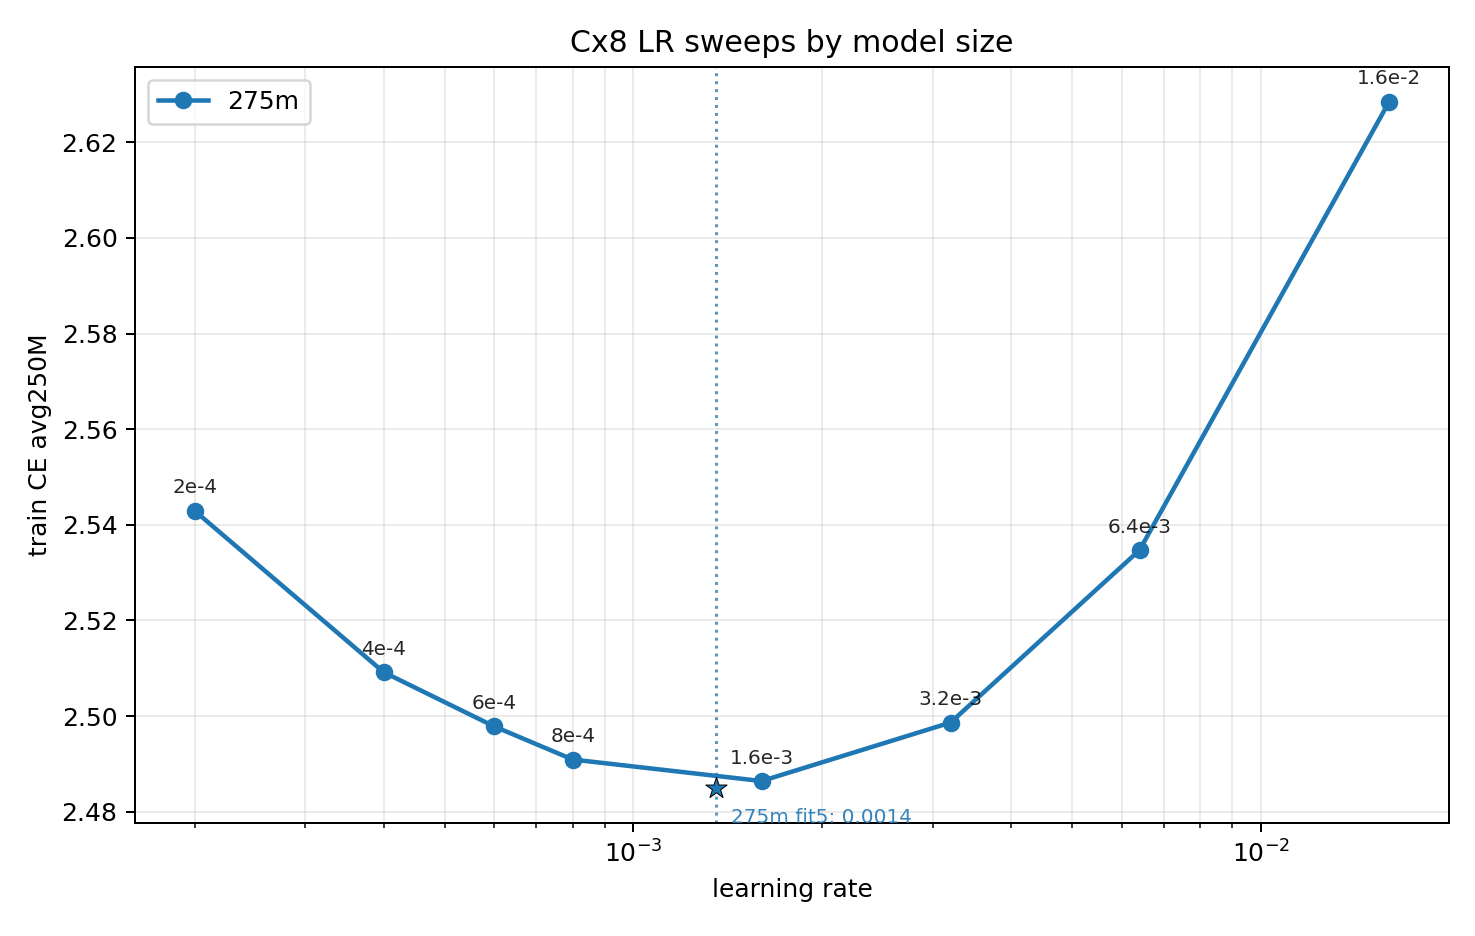
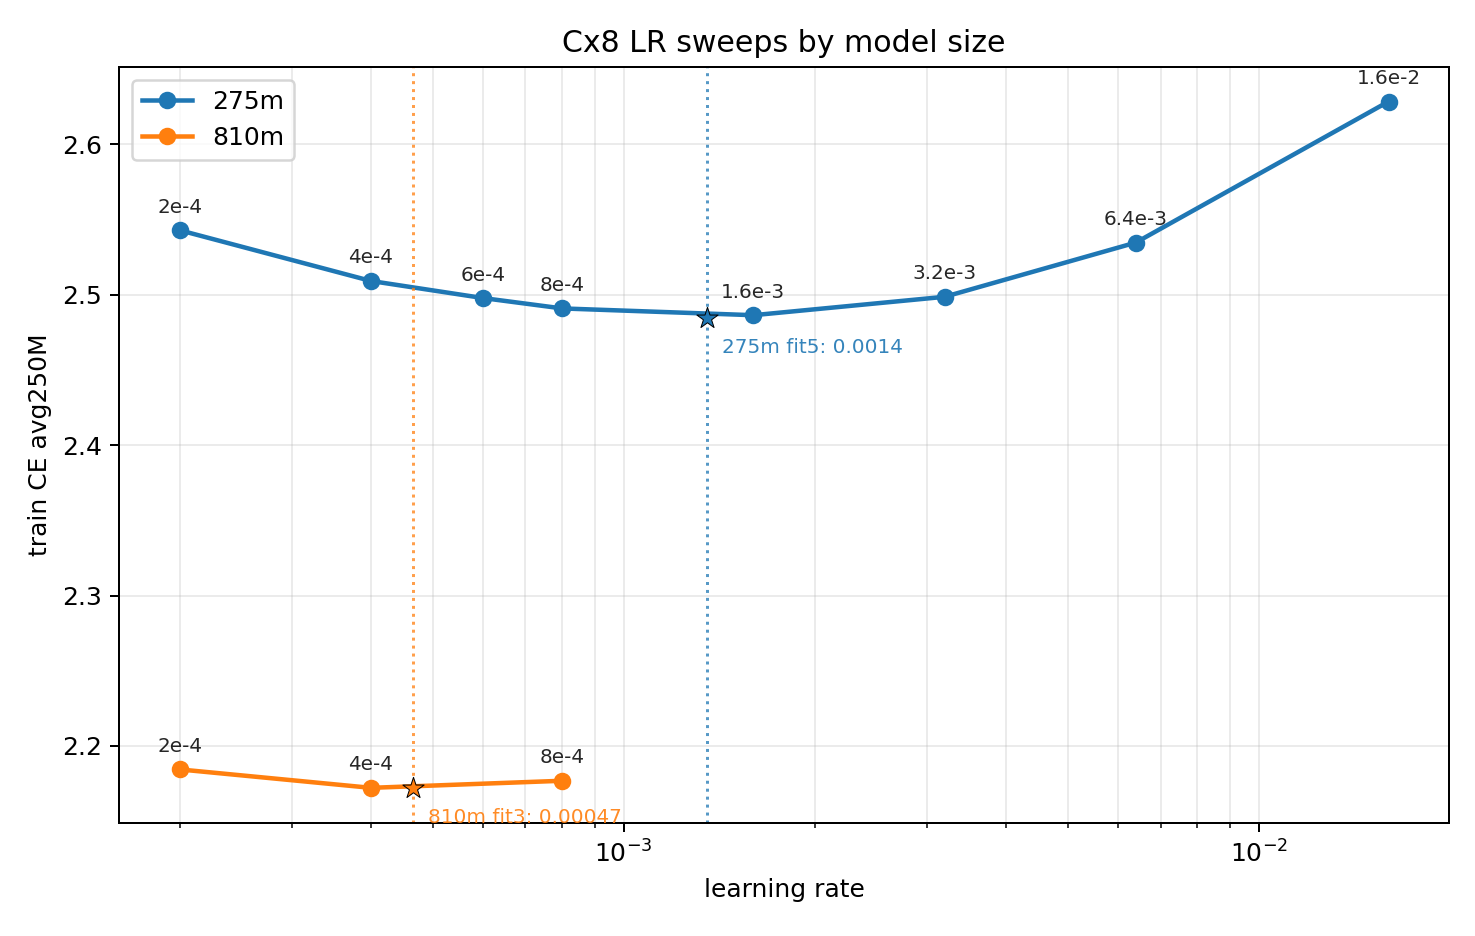
Record 810m Cx8 results

diff --git a/src/scripts/train/jacobm_olmoe_ladder/ANALYSIS.md b/src/scripts/train/jacobm_olmoe_ladder/ANALYSIS.md
@@ -120,6 +120,22 @@ Do not fit or launch from the 810M Cx2 curve yet. The `6e-4` run has started,
 and the `1.2e-3` run is still queued. Use the completed Cx2 curve only after
 those full runs land, unless a later failure forces a separate decision.
 
+## 2026-06-09 810M Cx8 Status
+
+The 810M Cx8 sweep completed as a clean bracket:
+
+| LR | State | Tokens | avg100M | avg250M | avg500M | W&B |
+| ---: | --- | ---: | ---: | ---: | ---: | --- |
+| `2e-4` | finished | 110.410B | 2.1827 | 2.1844 | 2.1879 | `a0k0519k` |
+| `4e-4` | finished | 110.410B | 2.1705 | 2.1721 | 2.1756 | `dkpaicdc` |
+| `8e-4` | finished | 110.410B | 2.1752 | 2.1768 | 2.1803 | `rhtrhhet` |
+
+The Cx8 best observed point is `4e-4`. A local 3-point quadratic fit on
+`avg250M` estimates the Cx8 optimum at about `4.7e-4`. Combining completed 810M
+fits for Cx1, Cx4, and Cx8 gives a shallow LR-vs-Cx rule with Cx16 prediction
+around `4.25e-4`, so the next 810M Cx16 sweep is centered as
+`2e-4`, `4e-4`, `8e-4`.
+
 ## 2026-06-02 Snapshot
 
 Initial read after the first 2M-batch sweep finished and the 256k-batch sweep was

diff --git a/src/scripts/train/jacobm_olmoe_ladder/RUNS.md b/src/scripts/train/jacobm_olmoe_ladder/RUNS.md
@@ -131,9 +131,9 @@ experiment name.
 | 2026-06-07 | `olmoe3-moe-a0-1p2b-cx1-b256k-gpu8-ep1mb2-lr4e-4-r1` | `tiny_275m.py` | 1x | 262,144 | 32 | 4e-4 | `01KTG4JQ19A27ZC6H0FDD9661S` | https://beaker.org/ex/01KTG4JQ19A27ZC6H0FDD9661S | First 1.2B Cx1 sweep centered from updated 810M transfer rule. Finished step 81190, 21.283B tokens, avg100M 2.3106, avg250M 2.3108, avg500M 2.3139. Best completed Cx1 point. W&B `r9esbx26`. 8 GPUs, EP=1, microbatch=2, in-loop fast evals every 2000 steps. |
 | 2026-06-07 | `olmoe3-moe-a0-1p2b-cx1-b256k-gpu8-ep1mb2-lr8e-4-r1` | `tiny_275m.py` | 1x | 262,144 | 32 | 8e-4 | `01KTG4K2MZHZNCYVG5K9RPV4SW` | https://beaker.org/ex/01KTG4K2MZHZNCYVG5K9RPV4SW | First 1.2B Cx1 sweep centered from updated 810M transfer rule. Finished step 81190, 21.283B tokens, avg100M 2.3145, avg250M 2.3148, avg500M 2.3181. W&B `eiuofxc6`. 8 GPUs, EP=1, microbatch=2, in-loop fast evals every 2000 steps. |
 | 2026-06-07 | `olmoe3-moe-a0-810m-cx8-b768k-gpu8-ep1mb4-lr1e-4-r1` | `tiny_275m.py` | 8x | 786,432 | 96 | 1e-4 | `01KTHQWMSQ0A4P6RCNKPS7YPYD` | https://beaker.org/ex/01KTHQWMSQ0A4P6RCNKPS7YPYD | Cancelled intentionally on 2026-06-08 after switching to the new 3-point-centered LR policy. This was the extra cold-side insurance point for 810M Cx8; do not include in canonical full-run analysis unless later resumed and completed. 8 GPUs, EP=1, microbatch=4, in-loop fast evals every 2000 steps. |
-| 2026-06-07 | `olmoe3-moe-a0-810m-cx8-b768k-gpu8-ep1mb4-lr2e-4-r1` | `tiny_275m.py` | 8x | 786,432 | 96 | 2e-4 | `01KTHQX04RMEK7C7V6DZRZVXM6` | https://beaker.org/ex/01KTHQX04RMEK7C7V6DZRZVXM6 | 810M Cx8 sweep queued while 1.2B Cx1 was near finish. Fixed LR grid independent of the pending 1.2B result. 8 GPUs, EP=1, microbatch=4, in-loop fast evals every 2000 steps. |
-| 2026-06-07 | `olmoe3-moe-a0-810m-cx8-b768k-gpu8-ep1mb4-lr4e-4-r1` | `tiny_275m.py` | 8x | 786,432 | 96 | 4e-4 | `01KTHQXB575GS84FBP4SNZ1GAA` | https://beaker.org/ex/01KTHQXB575GS84FBP4SNZ1GAA | 810M Cx8 sweep queued while 1.2B Cx1 was near finish. Fixed LR grid independent of the pending 1.2B result. 8 GPUs, EP=1, microbatch=4, in-loop fast evals every 2000 steps. |
-| 2026-06-07 | `olmoe3-moe-a0-810m-cx8-b768k-gpu8-ep1mb4-lr8e-4-r1` | `tiny_275m.py` | 8x | 786,432 | 96 | 8e-4 | `01KTHQXNN4MFDBAP490ACJTJ07` | https://beaker.org/ex/01KTHQXNN4MFDBAP490ACJTJ07 | 810M Cx8 sweep queued while 1.2B Cx1 was near finish. Fixed LR grid independent of the pending 1.2B result. 8 GPUs, EP=1, microbatch=4, in-loop fast evals every 2000 steps. |
+| 2026-06-07 | `olmoe3-moe-a0-810m-cx8-b768k-gpu8-ep1mb4-lr2e-4-r1` | `tiny_275m.py` | 8x | 786,432 | 96 | 2e-4 | `01KTHQX04RMEK7C7V6DZRZVXM6` | https://beaker.org/ex/01KTHQX04RMEK7C7V6DZRZVXM6 | 810M Cx8 sweep queued while 1.2B Cx1 was near finish. Finished step 140394, 110.410B tokens, avg100M 2.1827, avg250M 2.1844, avg500M 2.1879. W&B `a0k0519k`. 8 GPUs, EP=1, microbatch=4, in-loop fast evals every 2000 steps. |
+| 2026-06-07 | `olmoe3-moe-a0-810m-cx8-b768k-gpu8-ep1mb4-lr4e-4-r1` | `tiny_275m.py` | 8x | 786,432 | 96 | 4e-4 | `01KTHQXB575GS84FBP4SNZ1GAA` | https://beaker.org/ex/01KTHQXB575GS84FBP4SNZ1GAA | 810M Cx8 sweep queued while 1.2B Cx1 was near finish. Finished step 140394, 110.410B tokens, avg100M 2.1705, avg250M 2.1721, avg500M 2.1756. Best completed Cx8 point. W&B `dkpaicdc`. 8 GPUs, EP=1, microbatch=4, in-loop fast evals every 2000 steps. |
+| 2026-06-07 | `olmoe3-moe-a0-810m-cx8-b768k-gpu8-ep1mb4-lr8e-4-r1` | `tiny_275m.py` | 8x | 786,432 | 96 | 8e-4 | `01KTHQXNN4MFDBAP490ACJTJ07` | https://beaker.org/ex/01KTHQXNN4MFDBAP490ACJTJ07 | 810M Cx8 sweep queued while 1.2B Cx1 was near finish. Finished step 140394, 110.410B tokens, avg100M 2.1752, avg250M 2.1768, avg500M 2.1803. Hot side is worse than `4e-4`, so Cx8 is bracketed. W&B `rhtrhhet`. 8 GPUs, EP=1, microbatch=4, in-loop fast evals every 2000 steps. |
 | 2026-06-07 | `olmoe3-moe-a0-1p2b-cx4-b512k-gpu8-ep1mb2-lr1.5e-4-r1` | `tiny_275m.py` | 4x | 524,288 | 64 | 1.5e-4 | `01KTHW5XZXCNW9VV7FAMCS1C8F` | https://beaker.org/ex/01KTHW5XZXCNW9VV7FAMCS1C8F | 1.2B Cx4 sweep centered from completed 1.2B Cx1 plus updated 810M transfer rule. 8 GPUs, EP=1, microbatch=2, in-loop fast evals every 2000 steps. |
 | 2026-06-07 | `olmoe3-moe-a0-1p2b-cx4-b512k-gpu8-ep1mb2-lr3e-4-r1` | `tiny_275m.py` | 4x | 524,288 | 64 | 3e-4 | `01KTHW68C59T1XE9WNFW3EP3G1` | https://beaker.org/ex/01KTHW68C59T1XE9WNFW3EP3G1 | 1.2B Cx4 sweep centered from completed 1.2B Cx1 plus updated 810M transfer rule. 8 GPUs, EP=1, microbatch=2, in-loop fast evals every 2000 steps. |
 | 2026-06-07 | `olmoe3-moe-a0-1p2b-cx4-b512k-gpu8-ep1mb2-lr6e-4-r1` | `tiny_275m.py` | 4x | 524,288 | 64 | 6e-4 | `01KTHW6KH3XFR790J6J4G8ZAJ6` | https://beaker.org/ex/01KTHW6KH3XFR790J6J4G8ZAJ6 | 1.2B Cx4 sweep centered from completed 1.2B Cx1 plus updated 810M transfer rule. 8 GPUs, EP=1, microbatch=2, in-loop fast evals every 2000 steps. |